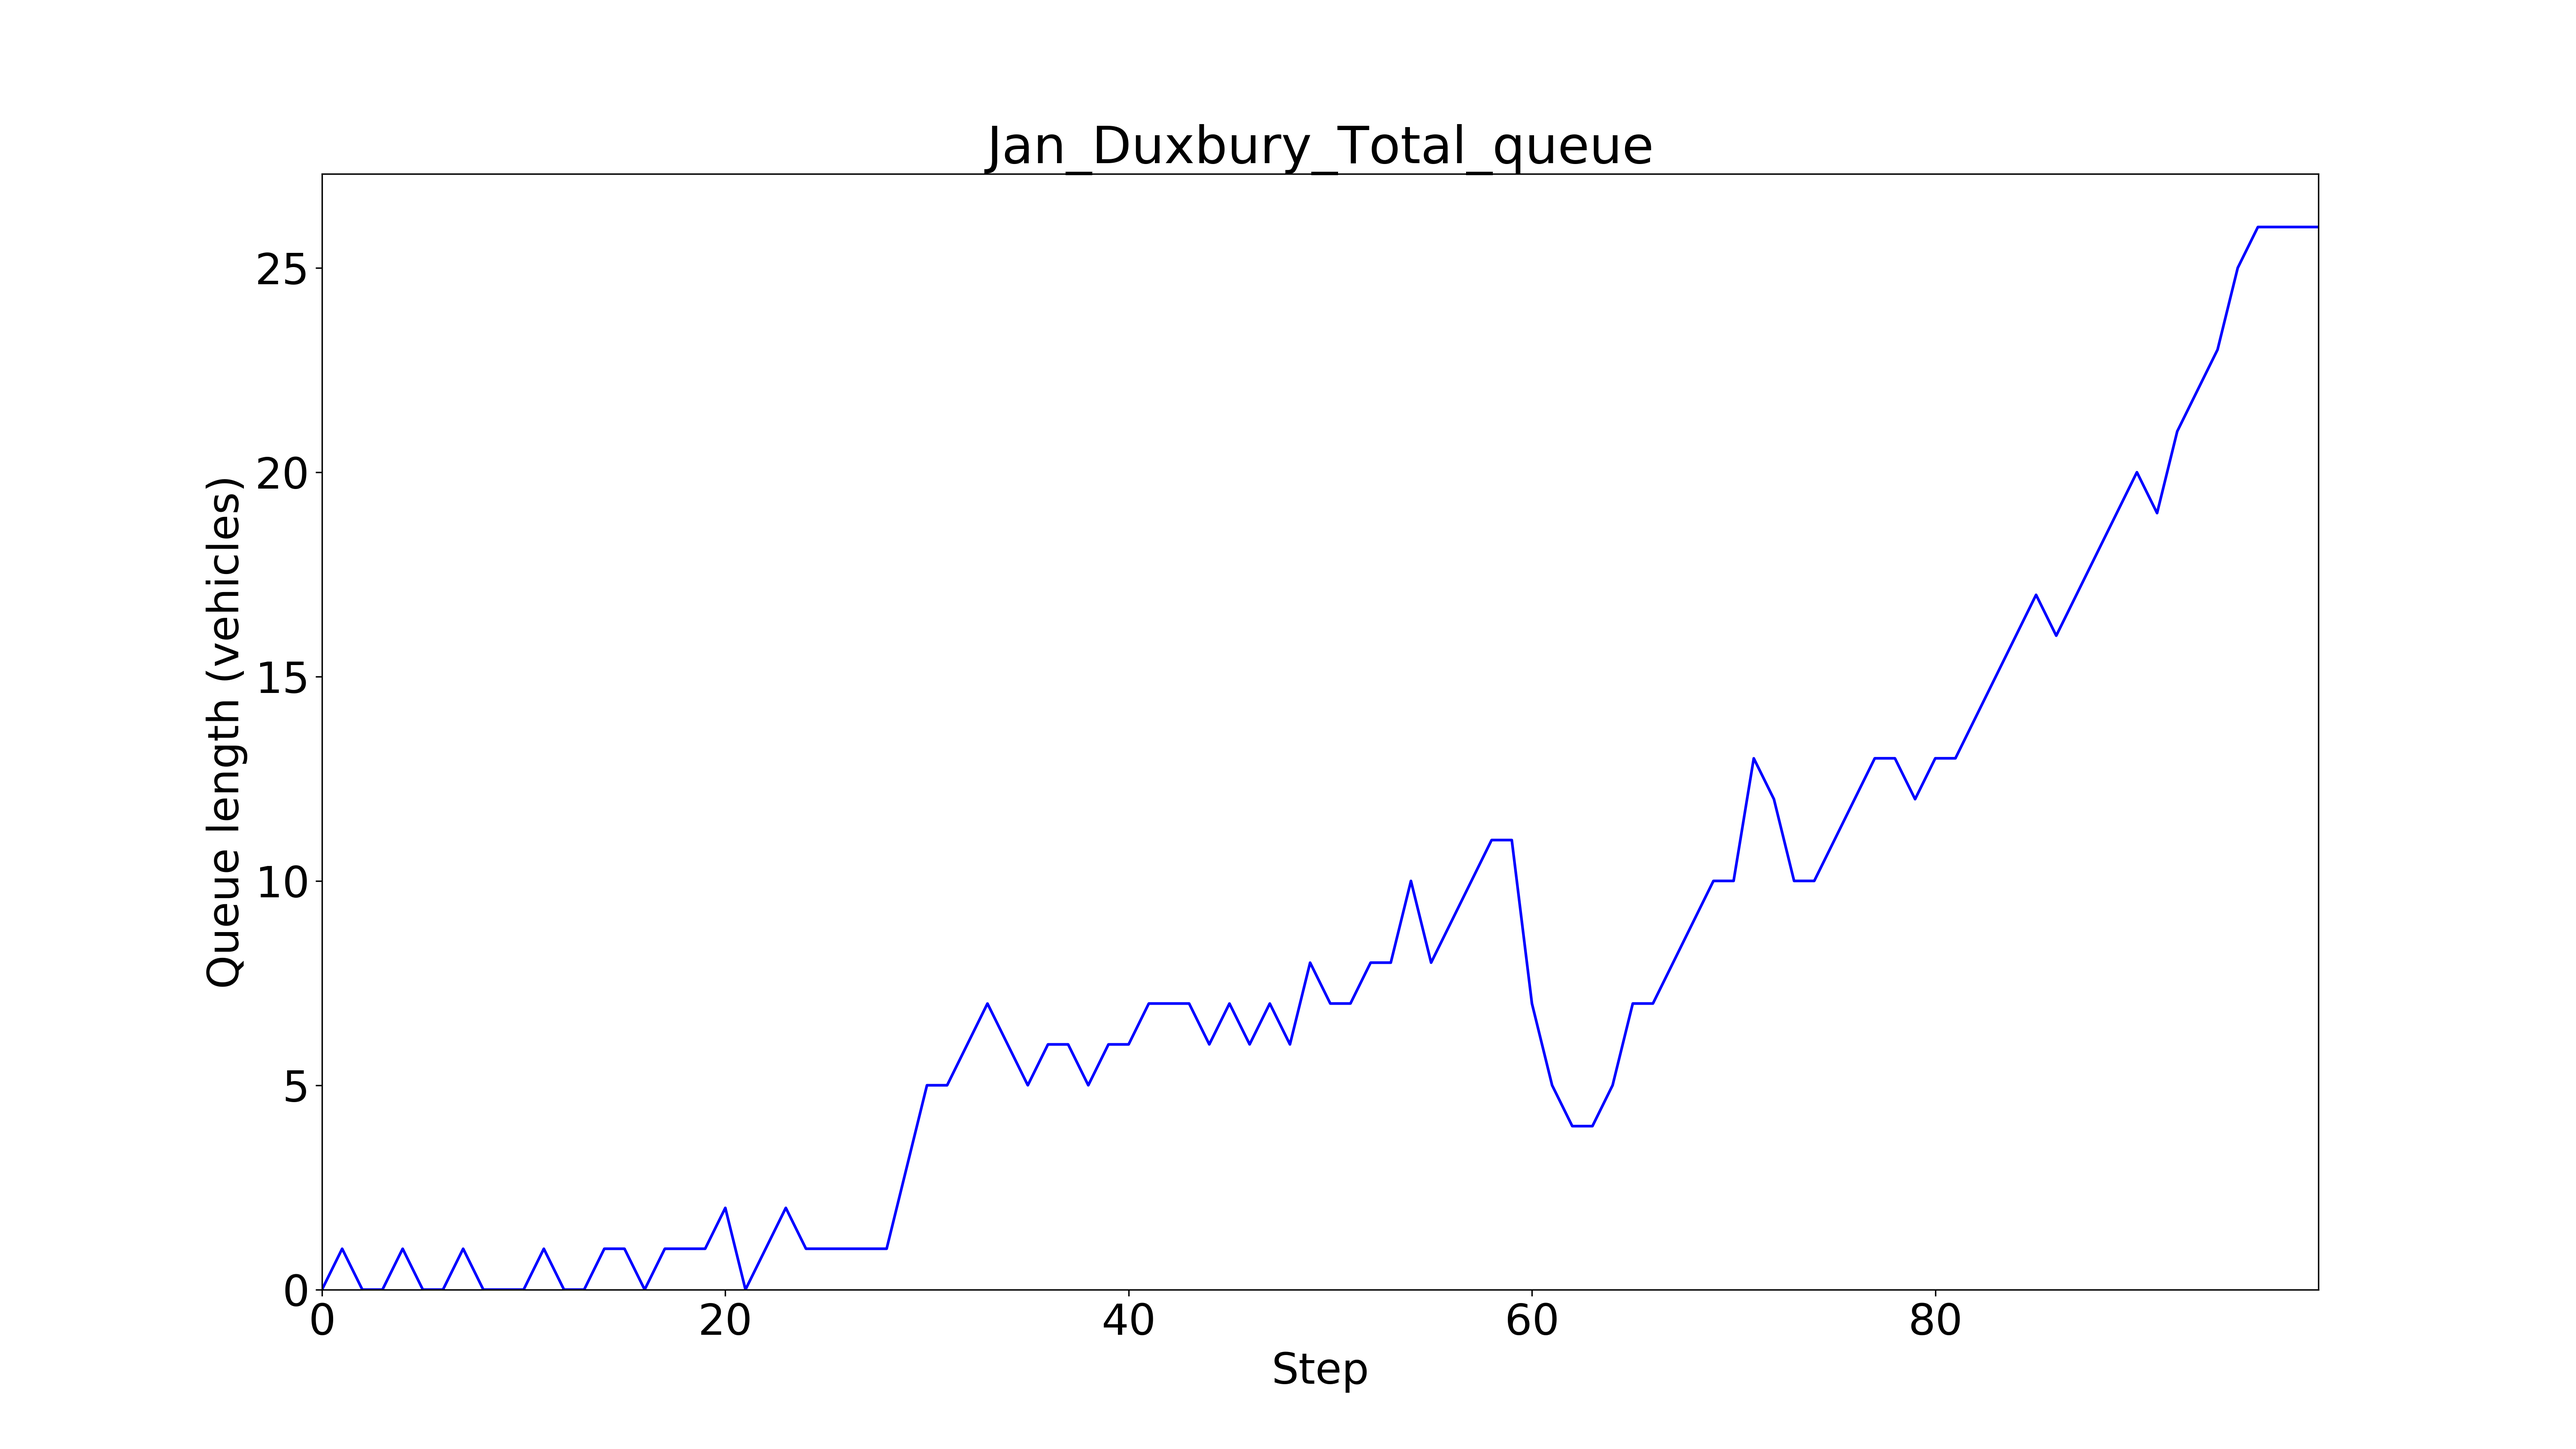
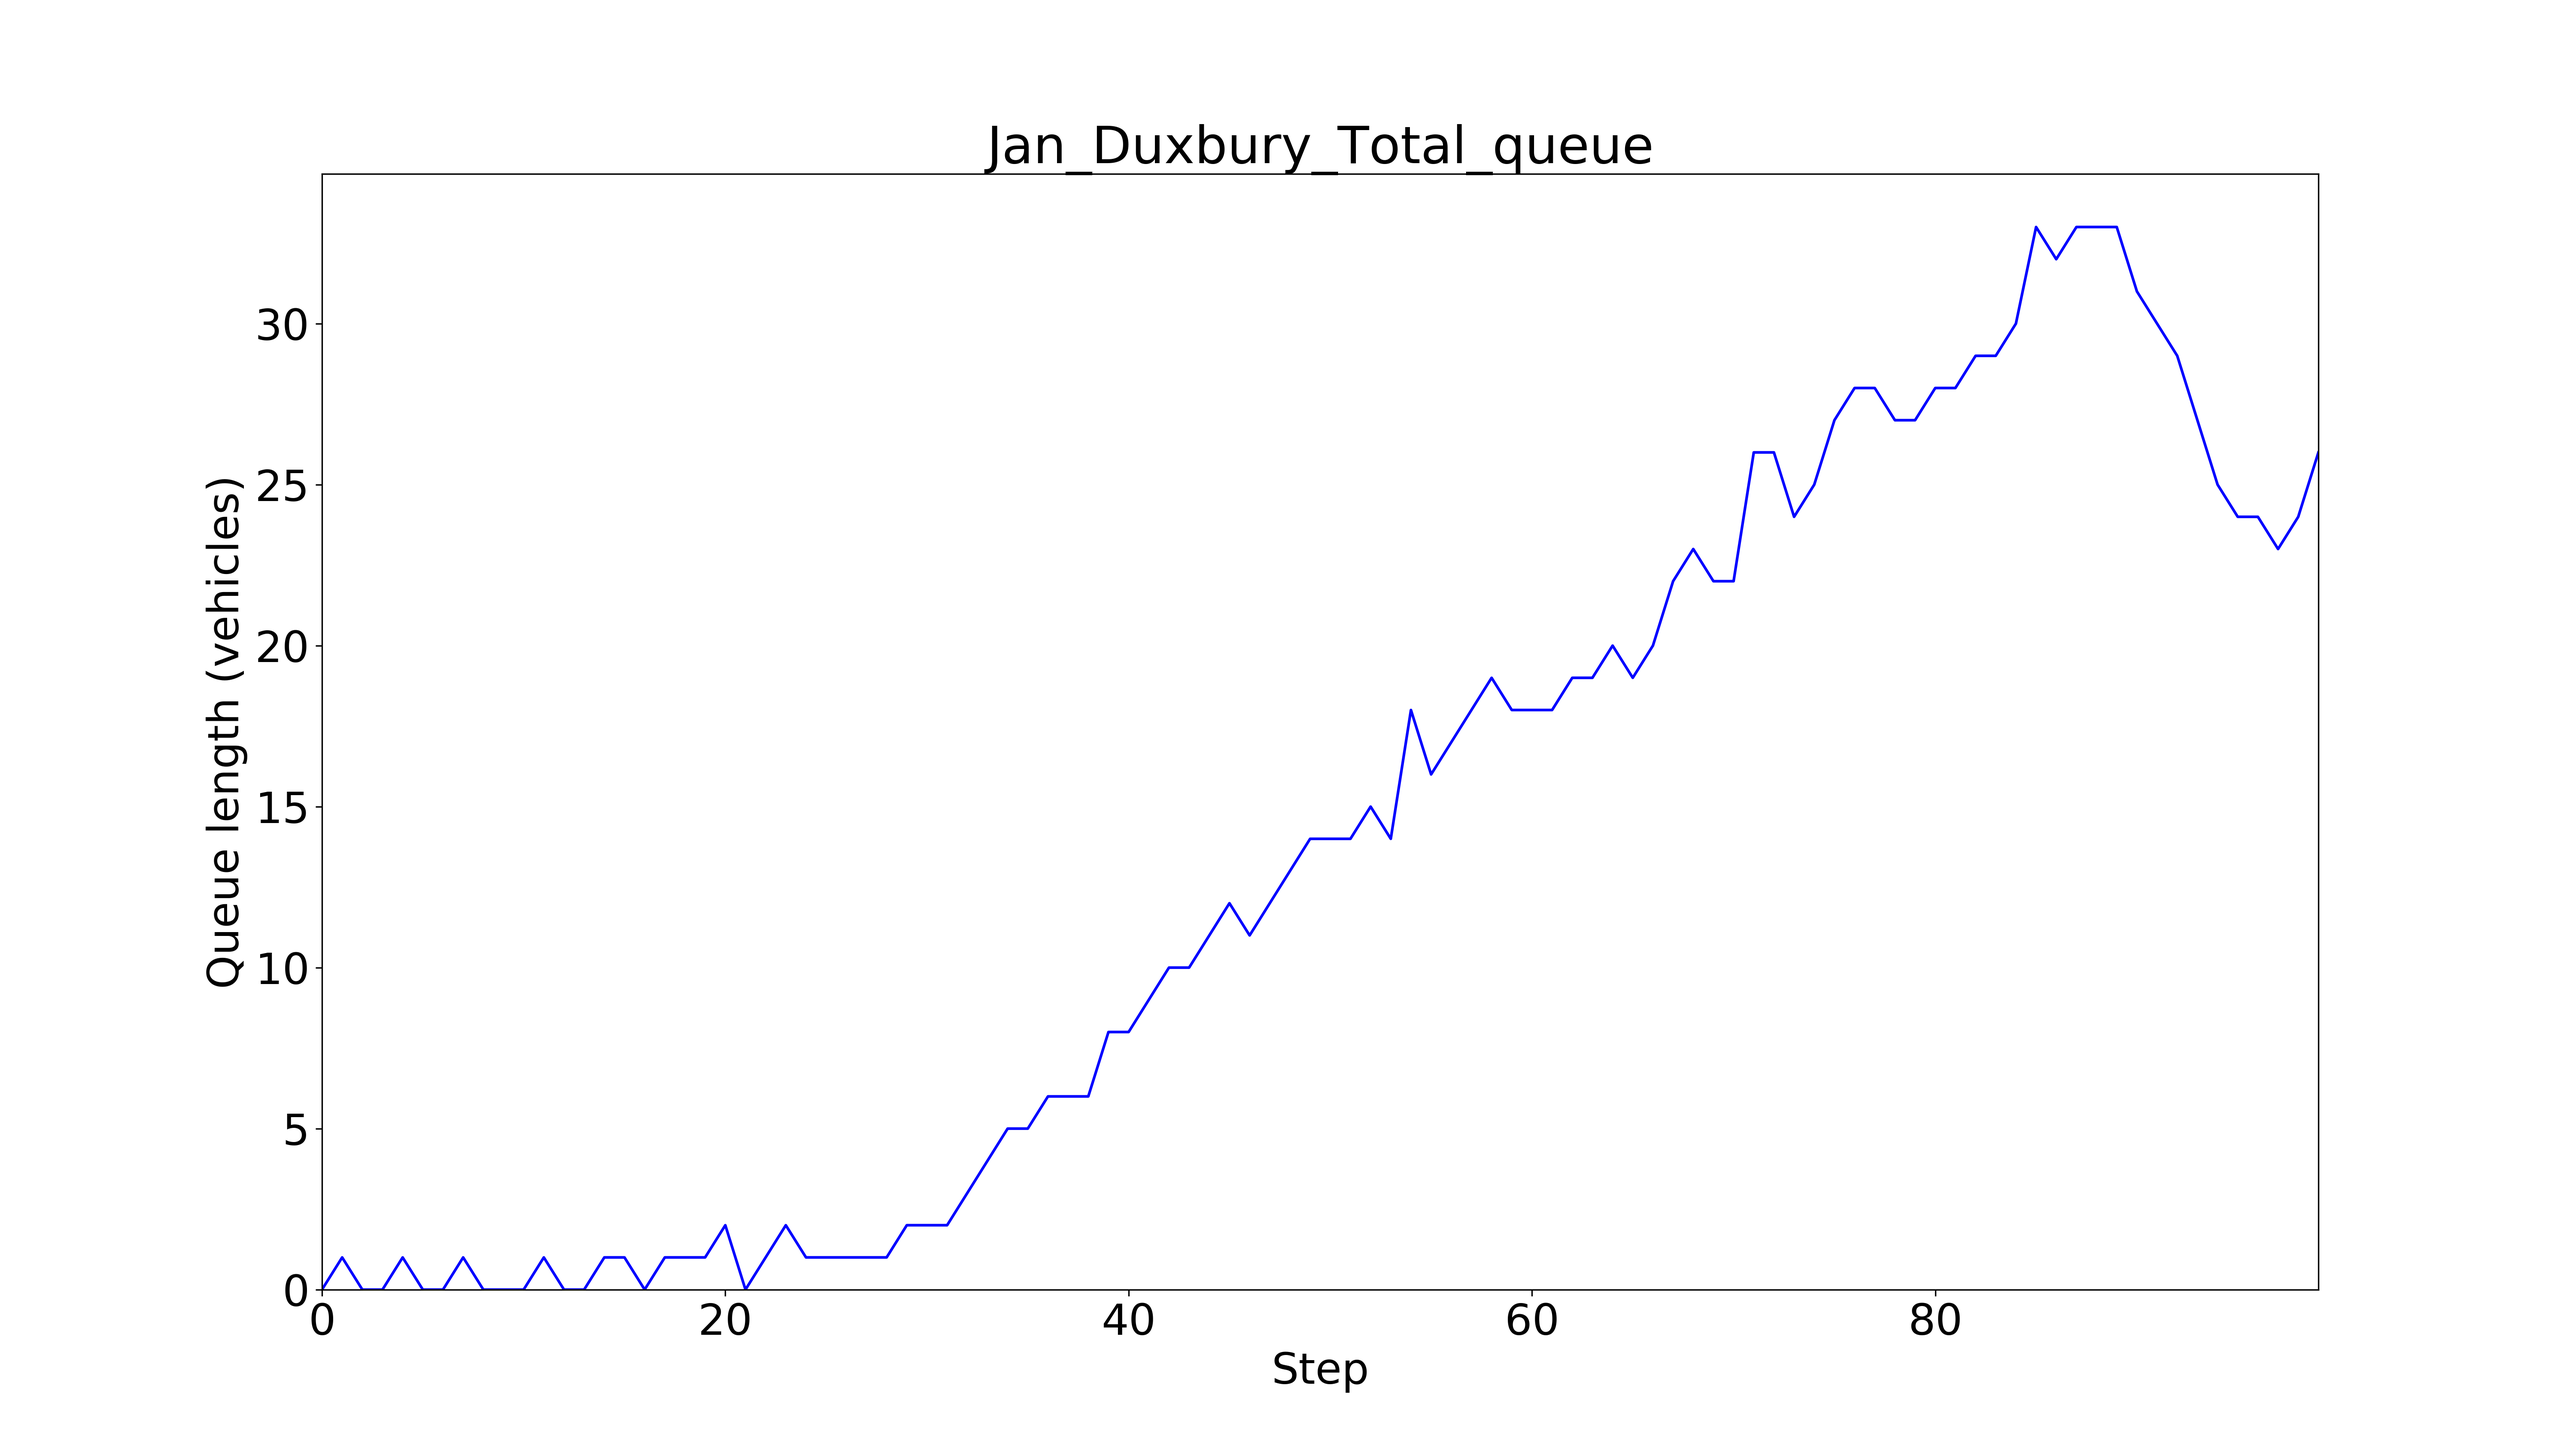
Modified Generation file
Modified generation files for random generation for simulation.

diff --git a/lightbot_ai/Adaptive_Traffic_Simulation/Common/VehicleGenerator.py b/lightbot_ai/Adaptive_Traffic_Simulation/Common/VehicleGenerator.py
@@ -12,7 +12,7 @@ class MockGenerator(VehicleGenerator):
     def generate_routefile(self, max_steps,n_cars_generated, episode_seed):
         np.random.seed(episode_seed)
 
-        # traffic is distributed according a Weibull distribution in this simulation
+        # traffic is distributed according a Weibull distribution
         timings = np.random.weibull(2, self._number_cars_generated)
         timings = np.sort(timings)
 
@@ -27,7 +27,25 @@ class MockGenerator(VehicleGenerator):
 
         car_gen_steps = np.rint(car_gen_steps)
 
-        # print data to route file
+        with open("Map\Jan_Shoba_Multi_Peak.rou.xml", "a") as routes:
+            print("""\n
+            <vType accel="1.0" decel="4.5" id="standard_car" length="5.0" minGap="2.5" maxSpeed="25" sigma="0.5" />"""
+            , file=routes)
+
+            for car_counter, step in enumerate(car_gen_steps):
+                straight_or_turn = np.random.uniform()
+                if straight_or_turn < 0.75: 
+                    route_straight = np.random.randint(1, 5)
+                    if route_straight == 1:
+                            print('    <vehicle id="W_E_%i" type="standard_car" route="W_E" depart="%s" departLane="random" departSpeed="10" />' % (car_counter, step), file=routes)
+                        elif route_straight == 2:
+                            print('    <vehicle id="E_W_%i" type="standard_car" route="E_W" depart="%s" departLane="random" departSpeed="10" />' % (car_counter, step), file=routes)
+                        elif route_straight == 3:
+                            print('    <vehicle id="N_S_%i" type="standard_car" route="N_S" depart="%s" departLane="random" departSpeed="10" />' % (car_counter, step), file=routes)
+                        else:
+                            print('    <vehicle id="S_N_%i" type="standard_car" route="S_N" depart="%s" departLane="random" departSpeed="10" />' % (car_counter, step), file=routes)
+
+            print("</routes>", file=routes)
 
 
 class RealWorldGenerator(VehicleGenerator):
